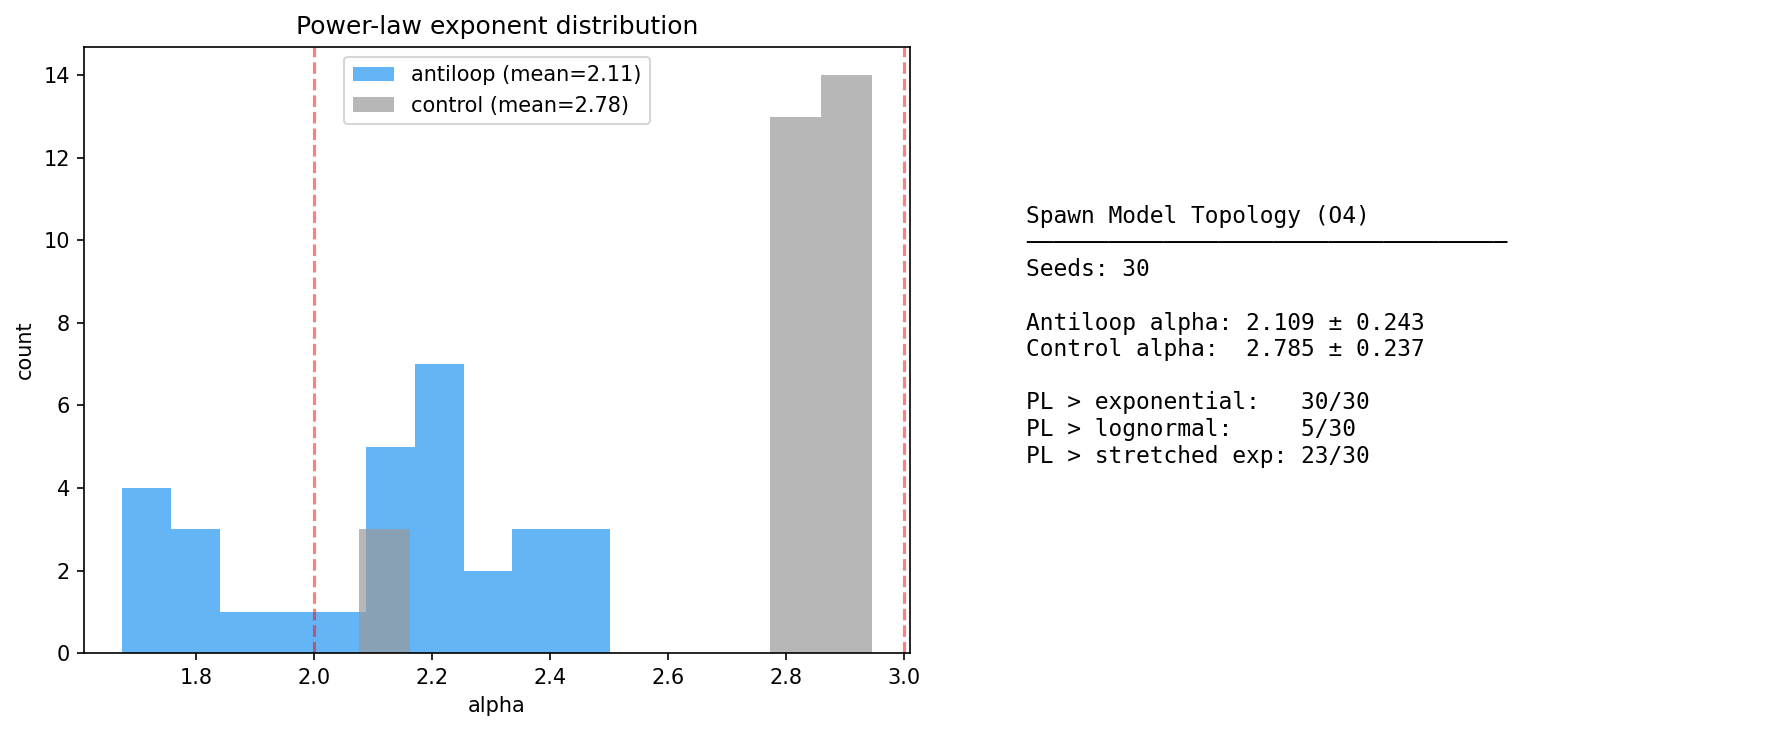
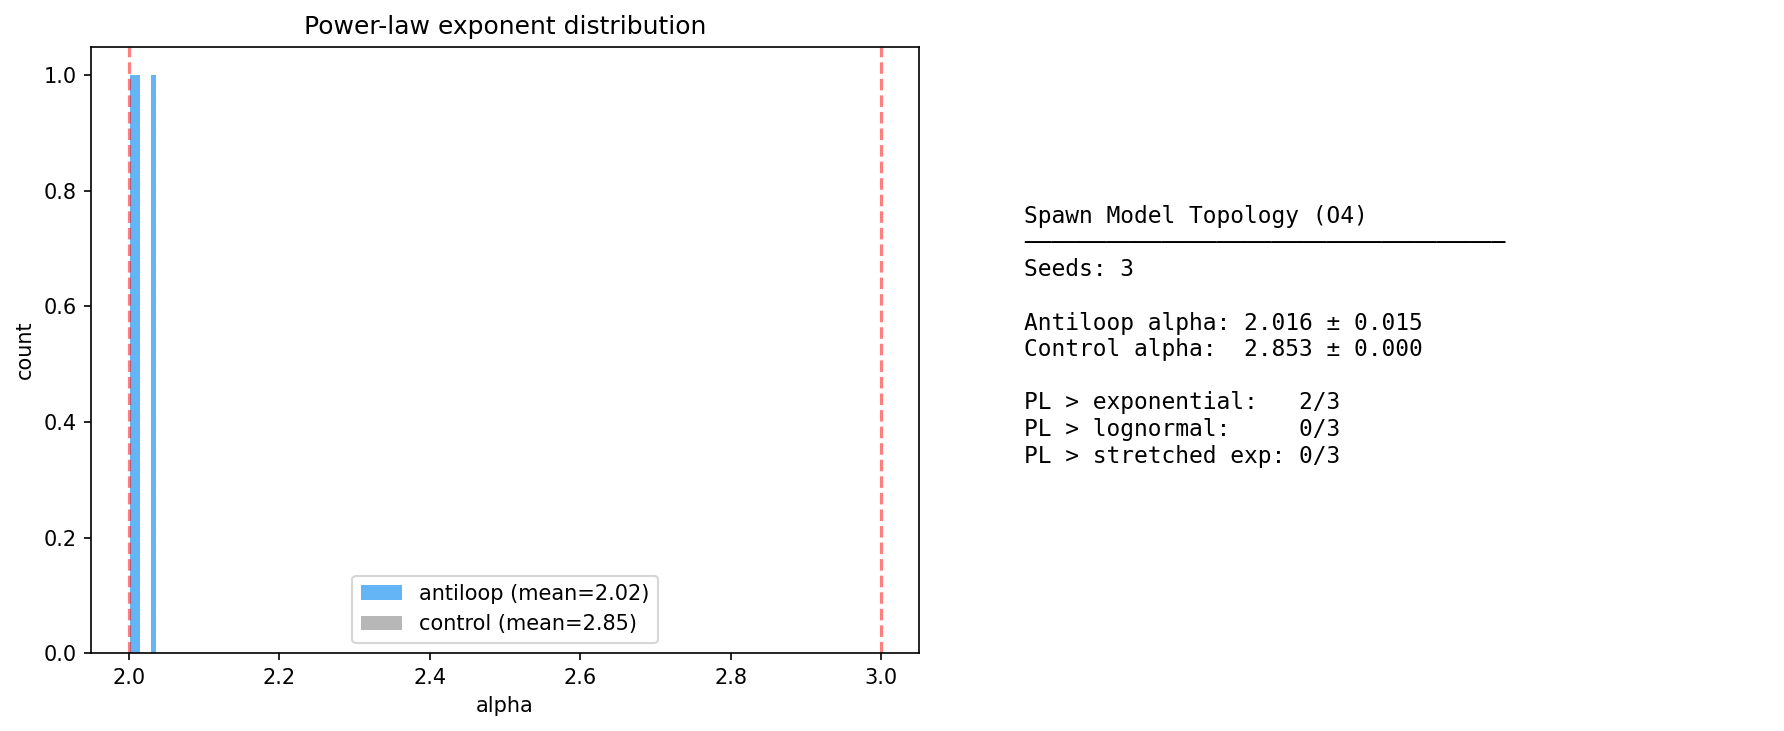
Add auto-calibration and fix CUDA: scale nodes to fill time budget
- Calibration probe measures throughput, auto-scales max_nodes
- Fix CuPy: set CUDA_PATH from pip-installed nvidia package before import
- Validate GPU with cp.arange() at init time
- At 42k nodes: alpha converges to ~2.0, lognormal beats pure power-law

diff --git a/simulation/experiments/spawn_topology.py b/simulation/experiments/spawn_topology.py
@@ -16,8 +16,54 @@ from simulation.shared.analysis import (
 TITLE = "O4 Spawn Topology"
 
 
+def _calibrate(mem_bits, max_nodes, progress):
+    """Run a quick probe to measure throughput and auto-scale max_nodes.
+
+    Runs a short simulation (max 5s or max_nodes, whichever comes first),
+    measures nodes/second, and returns the calibrated max_nodes that would
+    fill the target time per seed.
+    """
+    probe_limit = 5.0  # seconds
+    t0 = time.time()
+    G, nodes, growth_log = run_spawn_model(
+        mem_bits=mem_bits, max_nodes=max_nodes, seed=9999,
+        time_limit=probe_limit,
+    )
+    elapsed = time.time() - t0
+    n_reached = G.number_of_nodes()
+
+    if elapsed < 0.1:
+        # Too fast to measure — extrapolate conservatively
+        nodes_per_sec = n_reached / 0.1
+    else:
+        nodes_per_sec = n_reached / elapsed
+
+    return n_reached, elapsed, nodes_per_sec
+
+
 def run(progress, out_dir, n_seeds, max_nodes, mem_bits, time_budget, **_):
     time_per_seed = time_budget / n_seeds
+
+    # Calibration: if default max_nodes finishes too fast, scale up
+    progress.update(0, n_seeds, "Calibrating", "Measuring throughput...")
+    n_probe, t_probe, nps = _calibrate(mem_bits, max_nodes, progress)
+
+    if t_probe < time_per_seed * 0.5:
+        # Simulation finishes in less than half the budget — scale up
+        # Target: fill 80% of per-seed budget (leave margin for analysis)
+        target_time = time_per_seed * 0.8
+        calibrated_nodes = int(nps * target_time)
+        # At least the requested max_nodes, at most 100x
+        calibrated_nodes = max(max_nodes, min(calibrated_nodes, max_nodes * 100))
+        progress.log(f"  Calibration: {n_probe} nodes in {t_probe:.1f}s "
+                     f"({nps:.0f} nodes/s)")
+        progress.log(f"  Auto-scaling: {max_nodes} -> {calibrated_nodes} nodes "
+                     f"(target {target_time:.0f}s/seed)")
+        max_nodes = calibrated_nodes
+    else:
+        progress.log(f"  Calibration: {n_probe} nodes in {t_probe:.1f}s — "
+                     f"keeping {max_nodes} nodes")
+
     progress.log(f"O4 Spawn Topology: {n_seeds} seeds, {max_nodes} nodes, "
                  f"{mem_bits}-bit FSM, {time_budget}s budget ({time_per_seed:.0f}s/seed)")
 
@@ -37,7 +83,7 @@ def run(progress, out_dir, n_seeds, max_nodes, mem_bits, time_budget, **_):
         # Distribute remaining time evenly across remaining seeds
         seed_limit = remaining / seeds_left
         progress.update(i, n_seeds, "Running seeds",
-                        f"Seed {i+1}/{n_seeds} (seed={seed}, {seed_limit:.0f}s budget)")
+                        f"Seed {i+1}/{n_seeds} ({max_nodes} nodes, {seed_limit:.0f}s budget)")
 
         # Antiloop spawn model
         G, nodes, growth_log = run_spawn_model(

diff --git a/simulation/shared/engine.py b/simulation/shared/engine.py
@@ -18,11 +18,22 @@ import time
 import networkx as nx
 import numpy as np
 
-# Try to use CuPy for GPU-accelerated table lookups
+# Try to use CuPy for GPU-accelerated table lookups.
+# CUDA_PATH must be set BEFORE importing cupy (it caches at import time).
+import os
+if not os.environ.get("CUDA_PATH"):
+    try:
+        import nvidia.cuda_nvrtc
+        os.environ["CUDA_PATH"] = nvidia.cuda_nvrtc.__path__[0]
+    except (ImportError, IndexError, AttributeError):
+        pass
+
 try:
     import cupy as cp
+    # Validate CuPy can actually compile kernels (not just import)
+    _ = cp.arange(2)
     HAS_CUDA = True
-except ImportError:
+except Exception:
     cp = None
     HAS_CUDA = False
 
@@ -97,6 +108,7 @@ class SpawnModel:
                 self._gpu_tables = cp.asarray(self.tables[:self.n_nodes])
                 self._use_gpu = True
             except Exception:
+                self._gpu_tables = None
                 self._use_gpu = False
         else:
             self._use_gpu = False
